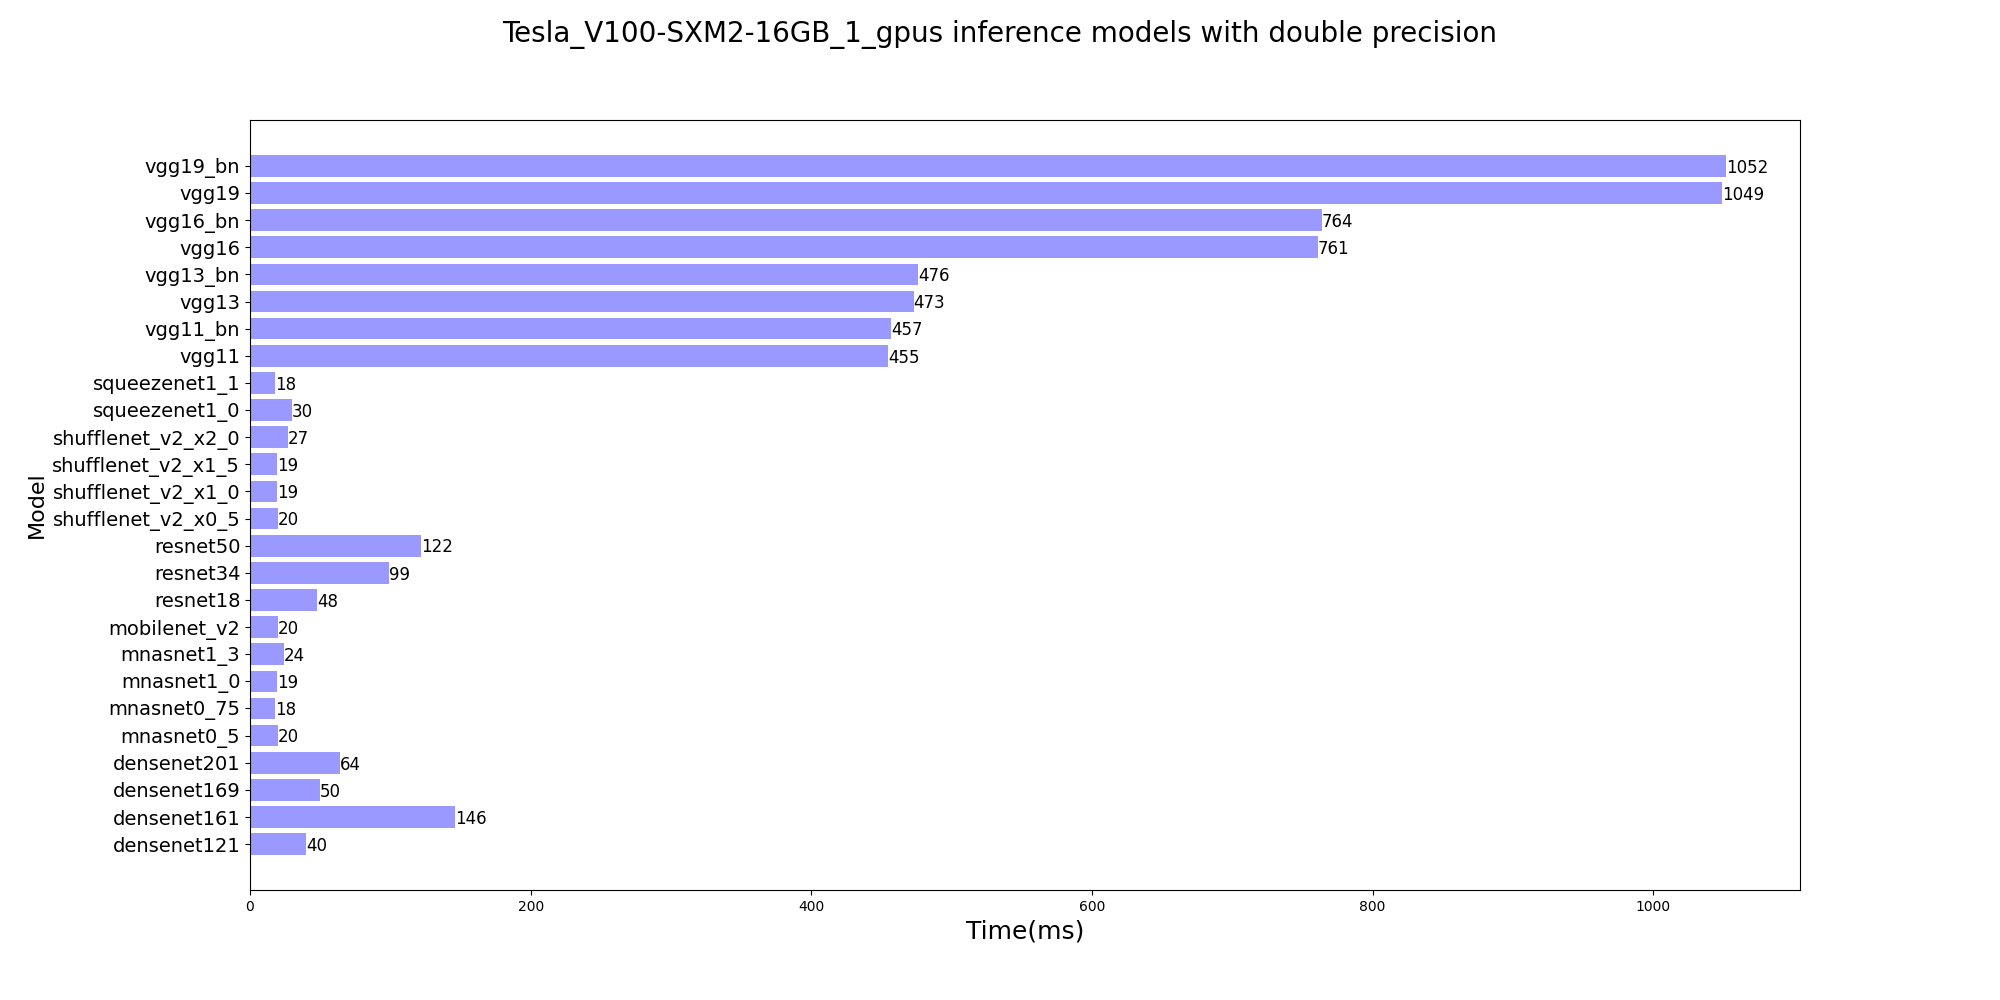
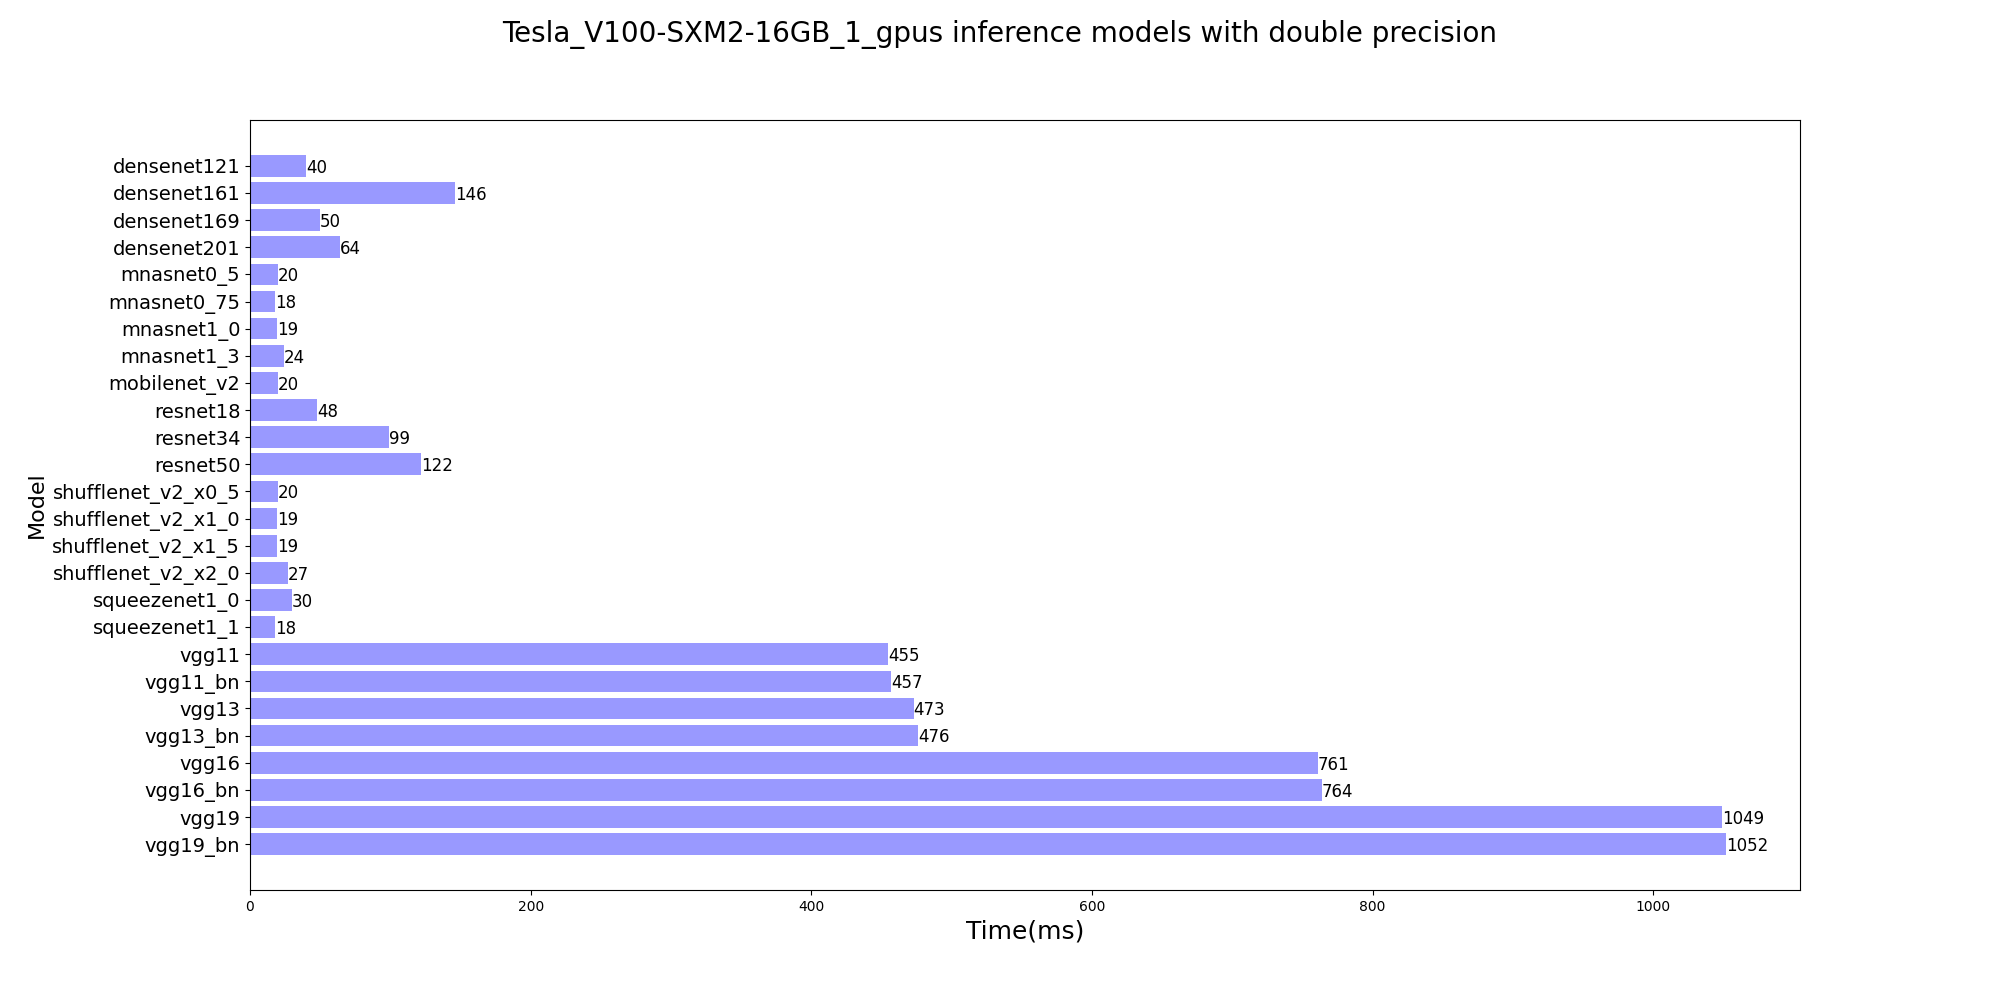
feat(benchmark): compare benchmark between envs by command succeed

Changed region(s): [[0.031, 0.155, 0.899, 0.868]]

diff --git a/benchmark_models.py b/benchmark_models.py
@@ -239,7 +239,7 @@ def plot_models_on_same_gpu(models_time_info,gpu,save_image_dir):
             plt_name = "{}_{}_{}.png".format(gpu,phase,precision)
             plt_save_path = os.path.join(save_image_dir,plt_name)
             
-            models_time_info.sort_values(by=['models'], inplace=True)
+            models_time_info.sort_values(by=['models'], inplace=True, ascending=False)
             
             names = models_time_info[(models_time_info.phases == phase) & (models_time_info.precisions == precision)]['models'].tolist()
             times = models_time_info[(models_time_info.phases == phase) & (models_time_info.precisions == precision)]['time'].tolist()
@@ -442,20 +442,64 @@ def statistic_benchmark_between_gpus():
     env=args.ENVS[0]
     if len(args.GPUS) < 2:
         raise Exception("gpu nums must more one, but current nums is : {}".format(len(args.GPUS)), args.GPUS)
-    
     gpus = args.GPUS
     existed_gpus_dir  = os.path.join(experiment_result,env)
     existed_gpus = get_sub_dir(existed_gpus_dir)
-
     for gpu in gpus:
         if gpu not in existed_gpus:
             raise Exception("{} not existed !".format(gpu))
 
     gpus_data_frame = build_gpus_data_frame_benchmark(experiment_result,env,gpus)
-    
     for phase in phases:
         for precision in precisions:
             plot_image_for_compare_model_benchmark_on_multiple_gpus(env,phase,precision,gpus_data_frame)
+
+
+def validate_args_for_statistic_benchmark_between_envs():
+    experiment_result = RESULT_ROOT_DIR
+    if len(args.ENVS) < 2:
+        raise Exception("env nums must more one, but current nums is : {}".format(len(args.ENVS)), args.ENVS)
+    envs = args.ENVS
+    if len(args.GPUS) != 1:
+        raise Exception("gpu nums must be one, but current nums is : {}".format(len(args.GPUS)), args.GPUS)
+    gpu = args.GPUS[0]
+
+    existed_envs = get_sub_dir(experiment_result)
+    for env in envs:
+        if env not in existed_envs:
+            raise Exception("{} not existed !".format(env))
+        existed_gpus = get_sub_dir(os.path.join(experiment_result,env))
+        if gpu not in existed_gpus:
+            raise Exception("{} not existed in {} !".format(gpu, env))
+    return envs, gpu
+
+def build_big_data_frame_for_benchmark(experiment_result):
+    envs = get_sub_dir(experiment_result)
+    big_data_frame = pd.DataFrame(columns = DF_COLUMNS)
+    for env in envs:
+        gpus = get_sub_dir(os.path.join(experiment_result,env))
+        for gpu in gpus:
+            benchmark_csv_files_dir = os.path.join(experiment_result,env,gpu,'data')
+            small_data_frame = build_small_data_frame_for_benchmark(env,gpu,benchmark_csv_files_dir)
+            big_data_frame = pd.concat([big_data_frame, small_data_frame], axis=0, ignore_index=True)
+    # big_data_frame.to_csv("./big_data_frame.csv")
+    return big_data_frame
+
+def build_envs_data_frame_benchmark(experiment_result,envs,gpu):
+    envs_data_frame = pd.DataFrame(columns = DF_COLUMNS)
+    for env in envs:
+        benchmark_csv_files_dir = os.path.join(experiment_result,env,gpu,'data')
+        small_data_frame = build_small_data_frame_for_benchmark(env,gpu,benchmark_csv_files_dir)
+        envs_data_frame = pd.concat([envs_data_frame, small_data_frame], axis=0, ignore_index=True)
+    return envs_data_frame    
+
+def statistic_benchmark_between_envs():
+    envs, gpu  = validate_args_for_statistic_benchmark_between_envs()
+    envs_data_frame = build_envs_data_frame_benchmark(RESULT_ROOT_DIR,envs,gpu)
+
+    for phase in phases:
+        for precision in precisions:
+            plot_image_with_models_benchmark_on_special_gpu_between_envs(gpu,phase,precision,envs_data_frame)
 
 
 if __name__ == '__main__':
@@ -465,7 +509,7 @@ if __name__ == '__main__':
     elif args.opertation == 'gpu':
         statistic_benchmark_between_gpus()
     elif args.opertation == 'env':
-        pass
+        statistic_benchmark_between_envs()
     else:
         raise Exception("error opertation !",args.opertation)
     
